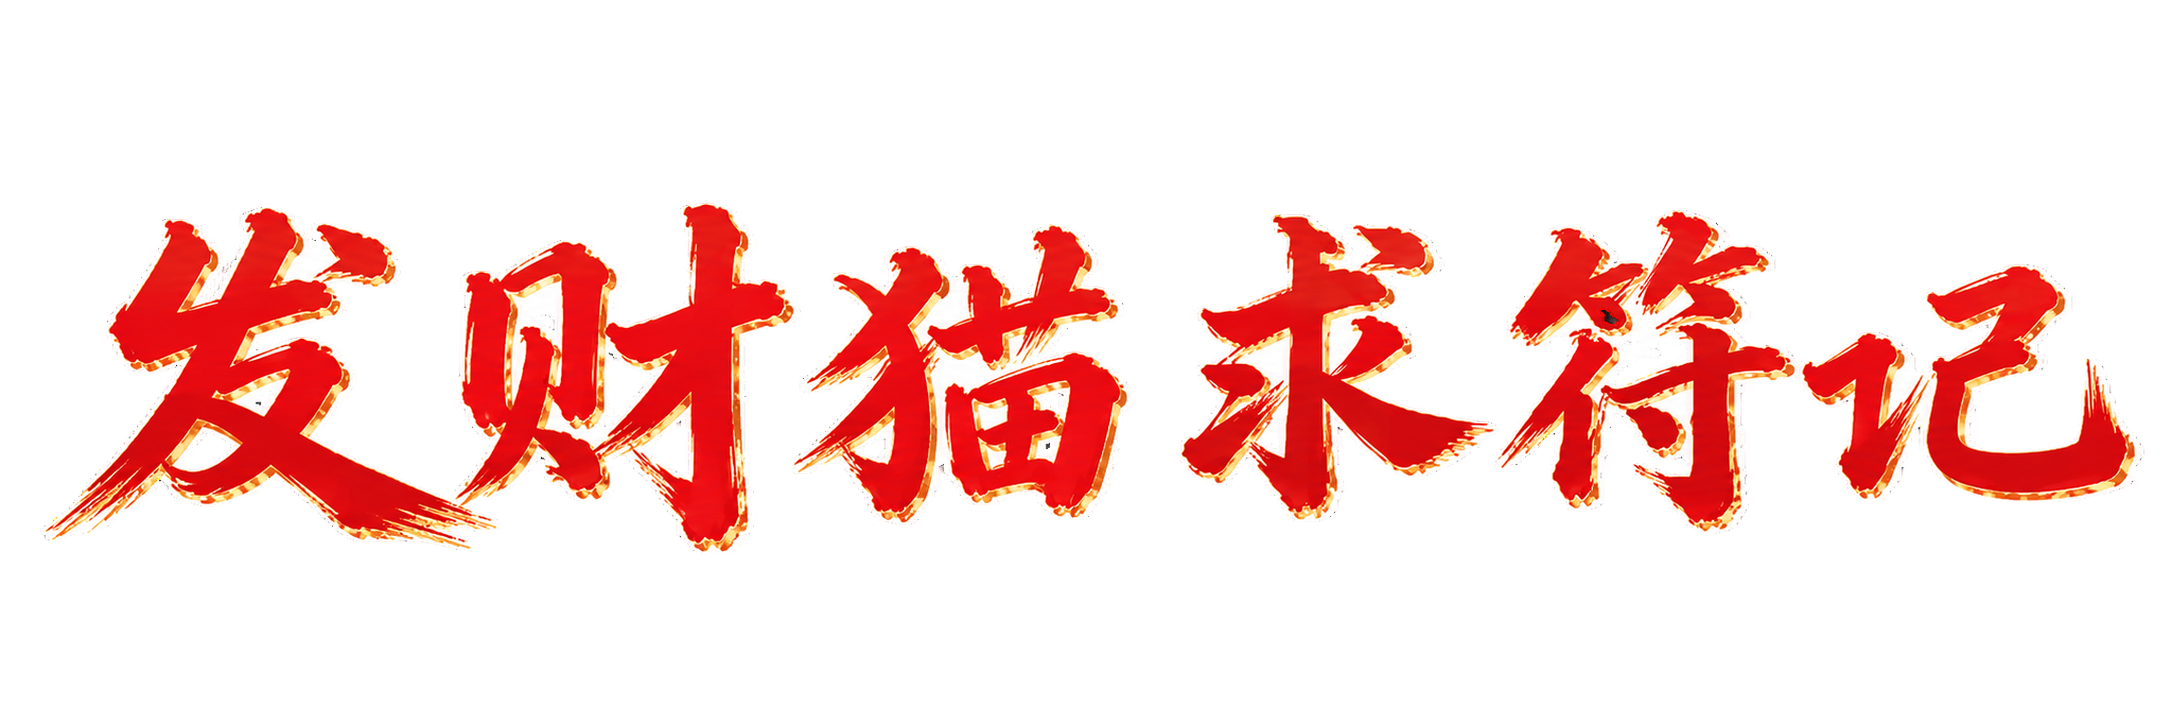
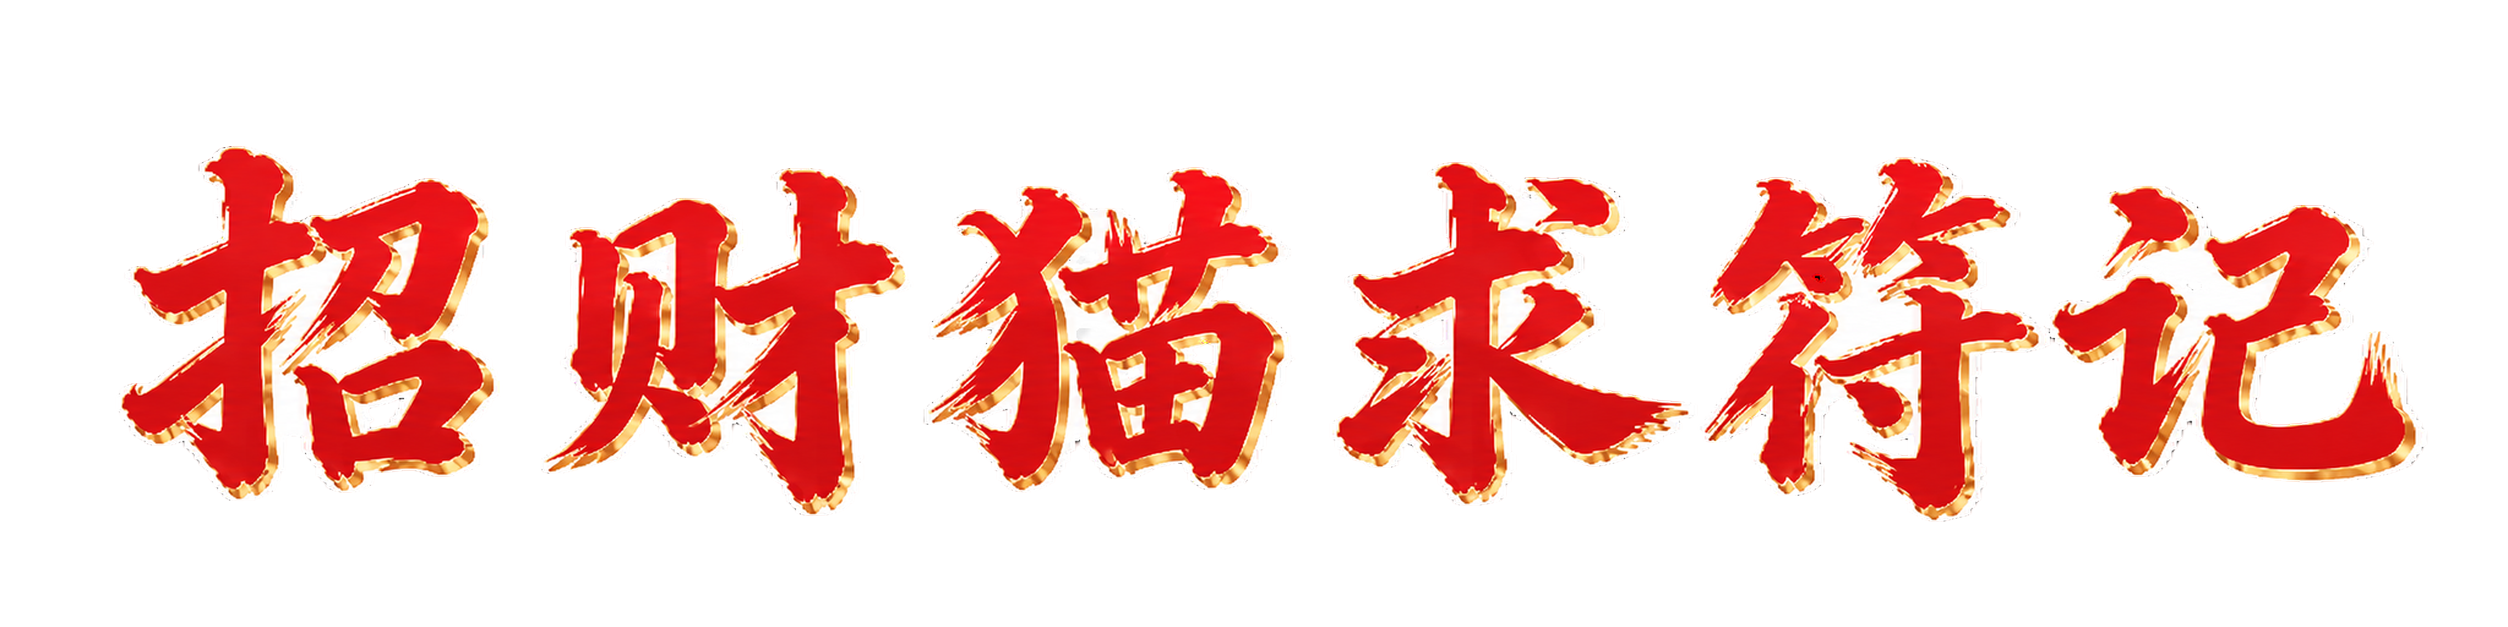
S1: replace 发财猫 with 招财猫求符记 title image

Changed region(s): [[0.0308, 0.2424, 0.9871, 0.8182], [0.0, 0.7273, 0.0308, 0.7576]]

diff --git a/index-v3.html b/index-v3.html
@@ -483,7 +483,7 @@ html,body{width:100%;height:100%;overflow:hidden;background:#f0ddb4;font-family:
 .v3-scroll.open{animation:v2Open 0.6s cubic-bezier(0.34,1.2,0.64,1) both}
 .v3-scroll::before{content:'';position:absolute;top:0;left:4px;right:4px;height:40px;background:linear-gradient(180deg,rgba(247,217,126,0.2),transparent);pointer-events:none}
 .v3-scroll::after{content:'';position:absolute;bottom:0;left:4px;right:4px;height:40px;background:linear-gradient(0deg,rgba(247,217,126,0.2),transparent);pointer-events:none}
-.v3-scroll-inner{writing-mode:vertical-rl;text-orientation:upright;font-family:"ZCOOL QingKe HuangYou","Ma Shan Zheng","STKaiti","KaiTi","Kaiti SC","楷体","STSong","宋体",serif;font-size:clamp(2.2rem,4vh,3rem);font-weight:900;color:#f7d97e;letter-spacing:0;text-shadow:3px 3px 0 rgba(40,2,2,0.9),0 0 22px rgba(247,217,126,0.3);line-height:1.1;display:flex;flex-direction:row;justify-content:center;align-items:center;gap:0;height:100%;width:100%}
+.v3-scroll-inner{writing-mode:vertical-rl;text-orientation:upright;font-family:"ZCOOL QingKe HuangYou","Ma Shan Zheng","STKaiti","KaiTi","Kaiti SC","楷体","STSong","宋体",serif;font-size:clamp(2.2rem,4vh,3rem);font-weight:900;color:#f7d97e;letter-spacing:0;text-shadow:3px 3px 0 rgba(40,2,2,0.9),0 0 22px rgba(247,217,126,0.3);line-height:1;display:flex;flex-direction:row;justify-content:space-evenly;align-items:center;gap:0;height:100%;width:100%}
 .v3-corner{position:absolute;width:72px;height:72px;z-index:11;pointer-events:none;color:#a01818}
 .v3-tl{top:0;left:0}.v3-tr{top:0;right:0;transform:scaleX(-1)}.v3-bl{bottom:0;left:0;transform:scaleY(-1)}.v3-br{bottom:0;right:0;transform:scale(-1,-1)}
 .v3-deco{position:absolute;font-size:2rem;color:rgba(160,24,24,0.08);pointer-events:none;animation:drift 22s ease-in-out infinite alternate}
@@ -883,7 +883,7 @@ html,body{width:100%;height:100%;overflow:hidden;background:#f0ddb4;font-family:
     <svg class="corner bl" viewBox="0 0 80 80"><path d="M0,0 L80,0 L80,8 L20,8 L20,20 L8,20 L8,80 L0,80 Z" fill="currentColor" opacity="0.7"/><circle cx="14" cy="14" r="4" fill="currentColor"/></svg>
     <svg class="corner br" viewBox="0 0 80 80"><path d="M0,0 L80,0 L80,8 L20,8 L20,20 L8,20 L8,80 L0,80 Z" fill="currentColor" opacity="0.7"/><circle cx="14" cy="14" r="4" fill="currentColor"/></svg>
     <div class="p0-banner">⚜ 领航十一期 · E 夜暴富 · 2026.05.17 ⚜</div>
-    <img src="assets/s1_title.png" alt="发财猫求符记" style="width:88%;max-width:1100px;height:auto;filter:drop-shadow(0 4px 18px rgba(120,0,0,0.35));margin:10px 0 4px"/>
+    <img src="assets/s1_title.png" alt="招财猫求符记" style="width:88%;max-width:1100px;height:auto;filter:drop-shadow(0 4px 18px rgba(120,0,0,0.35));margin:10px 0 4px"/>
     <div class="p0-center-text" style="font-size:2.6rem;line-height:1.8;margin-top:18px">
       各位领航道友好！小猫来此拜大佬！<br/>
       招财猫只想E夜发财？<br/>是想搞清楚暴富本质才来！
@@ -1734,6 +1734,22 @@ function playCouplet(slideId) {
   if(catEl){ catEl.classList.remove('cat-jump'); void catEl.offsetWidth; catEl.classList.add('cat-jump'); }
 }
 
+// ===== AUTO-SIZE SCROLL INNERS =====
+function sizeScrollInners(slideEl) {
+  if (!slideEl) return;
+  slideEl.querySelectorAll('.v3-scroll').forEach(scroll => {
+    const inner = scroll.querySelector('.v3-scroll-inner');
+    if (!inner) return;
+    const text = inner.textContent.trim();
+    const n = [...text].length;
+    if (!n) return;
+    const h = scroll.offsetHeight;
+    if (!h) return;
+    const fs = Math.floor(h / n * 0.88);
+    inner.style.fontSize = Math.min(Math.max(fs, 28), 200) + 'px';
+  });
+}
+
 // ===== SLIDE SYSTEM =====
 const slides = document.querySelectorAll('.slide');
 const N = slides.length;
@@ -1816,6 +1832,7 @@ function onSlideEnter(i){
       setTimeout(()=>{ cat.style.transform=''; setTimeout(()=>{ cat.style.transition=''; },350); },550);
     },4200);
   } else if(i>=6&&i<=9){
+    requestAnimationFrame(()=>sizeScrollInners(document.getElementById('s'+i)));
     playV3Couplet('s'+i);
   } else if(i===10){
     // 1. White flash
